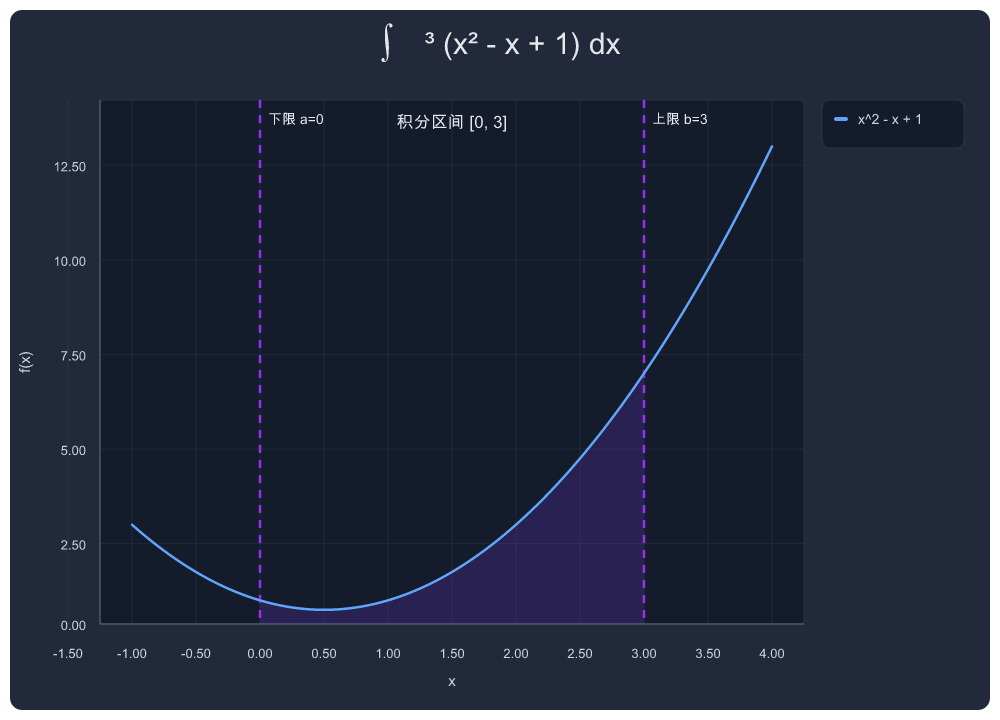
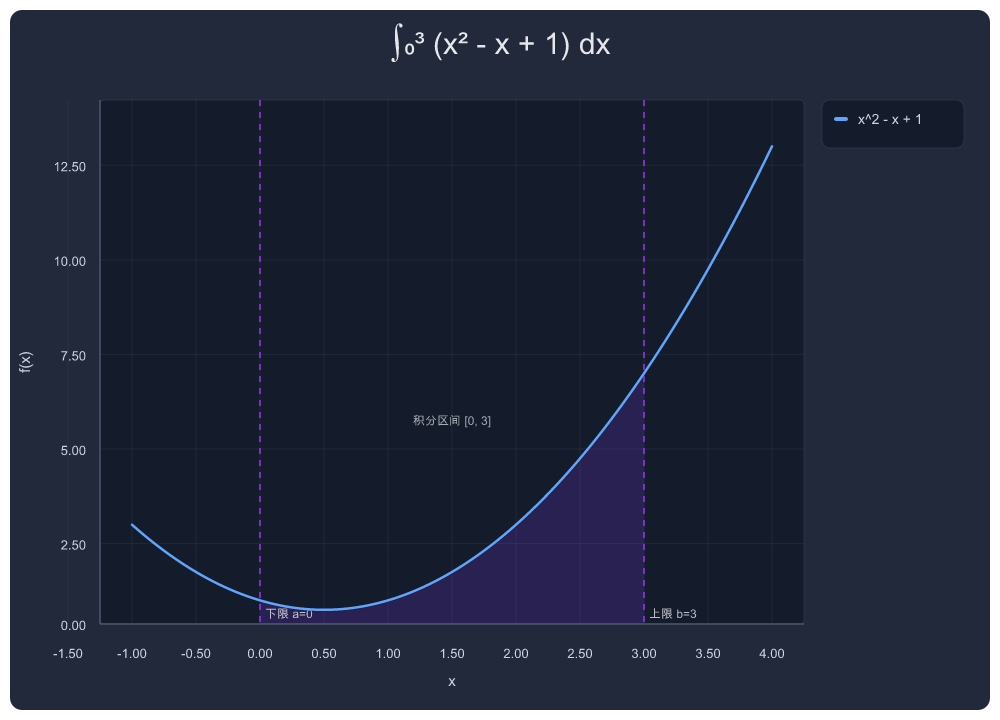
fix: pathify math/superscript/subscript chars + regen showcase #20
- needsPathify() now detects ∫₀₃² etc beyond just CJK
- Teaching integral showcase #20 regenerated (EN+CN)

diff --git a/src/render.ts b/src/render.ts
@@ -105,6 +105,13 @@ function hasCjk(text: string): boolean {
   return /[㐀-鿿豈-﫿]/.test(text);
 }
 
+/** Characters that resvg's built-in fonts typically can't render (math, superscripts, subscripts, etc.) */
+const SPECIAL_UNICODE_RE = /[∫∑∏√∂∞≠≈≤≥±×÷°αβγδθελπσφωΩ⁰¹²³⁴⁵⁶⁷⁸⁹⁺⁻⁽⁾₀₁₂₃₄₅₆₇₈₉₊₋₌₍₎·—–…←→↑↓↔↕]/;
+
+function needsPathify(text: string): boolean {
+  return hasCjk(text) || SPECIAL_UNICODE_RE.test(text);
+}
+
 function xmlUnescape(text: string): string {
   return text
     .replace(/&amp;/g, "&")
@@ -132,7 +139,7 @@ function measureText(font: any, text: string, fontSize: number): number {
 export async function pathifyCjkText(svg: string, env: Env): Promise<string> {
   const font = await loadCjkPathFont(env);
   return svg.replace(/<text([^>]*)>([\s\S]*?)<\/text>/g, (full, attrs, rawText) => {
-    if (rawText.includes("<tspan") || !hasCjk(rawText)) return full;
+    if (rawText.includes("<tspan") || !needsPathify(rawText)) return full;
     const text = xmlUnescape(rawText);
     const fontSize = Number(attrValue(attrs, "font-size") || DEFAULT_FONT_SIZE);
     let x = Number(attrValue(attrs, "x") || 0);
